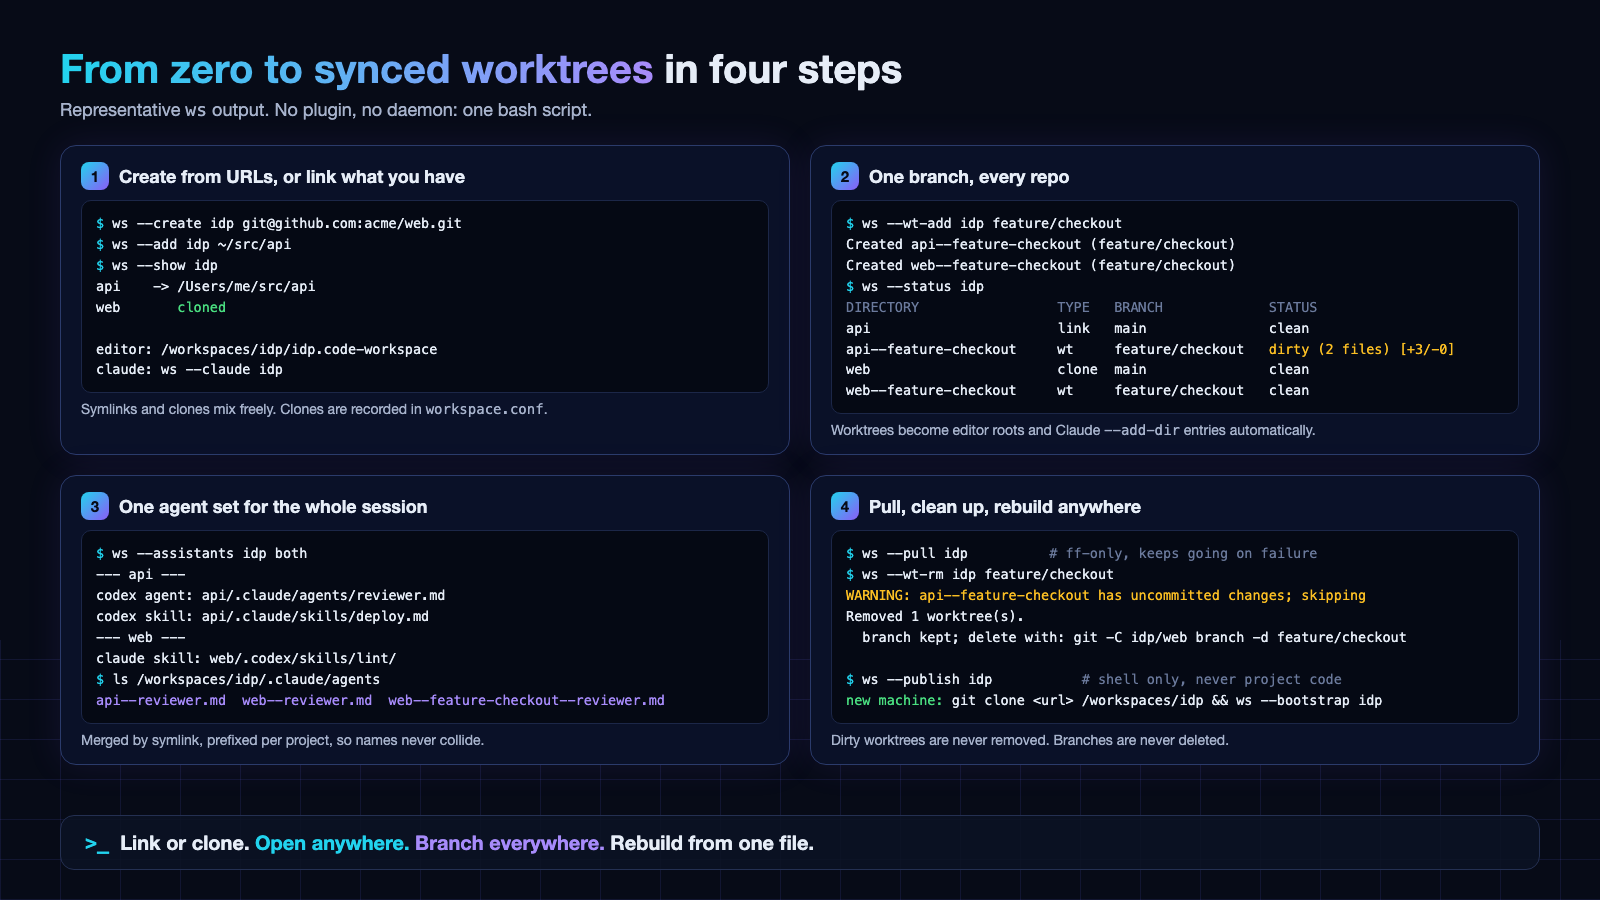
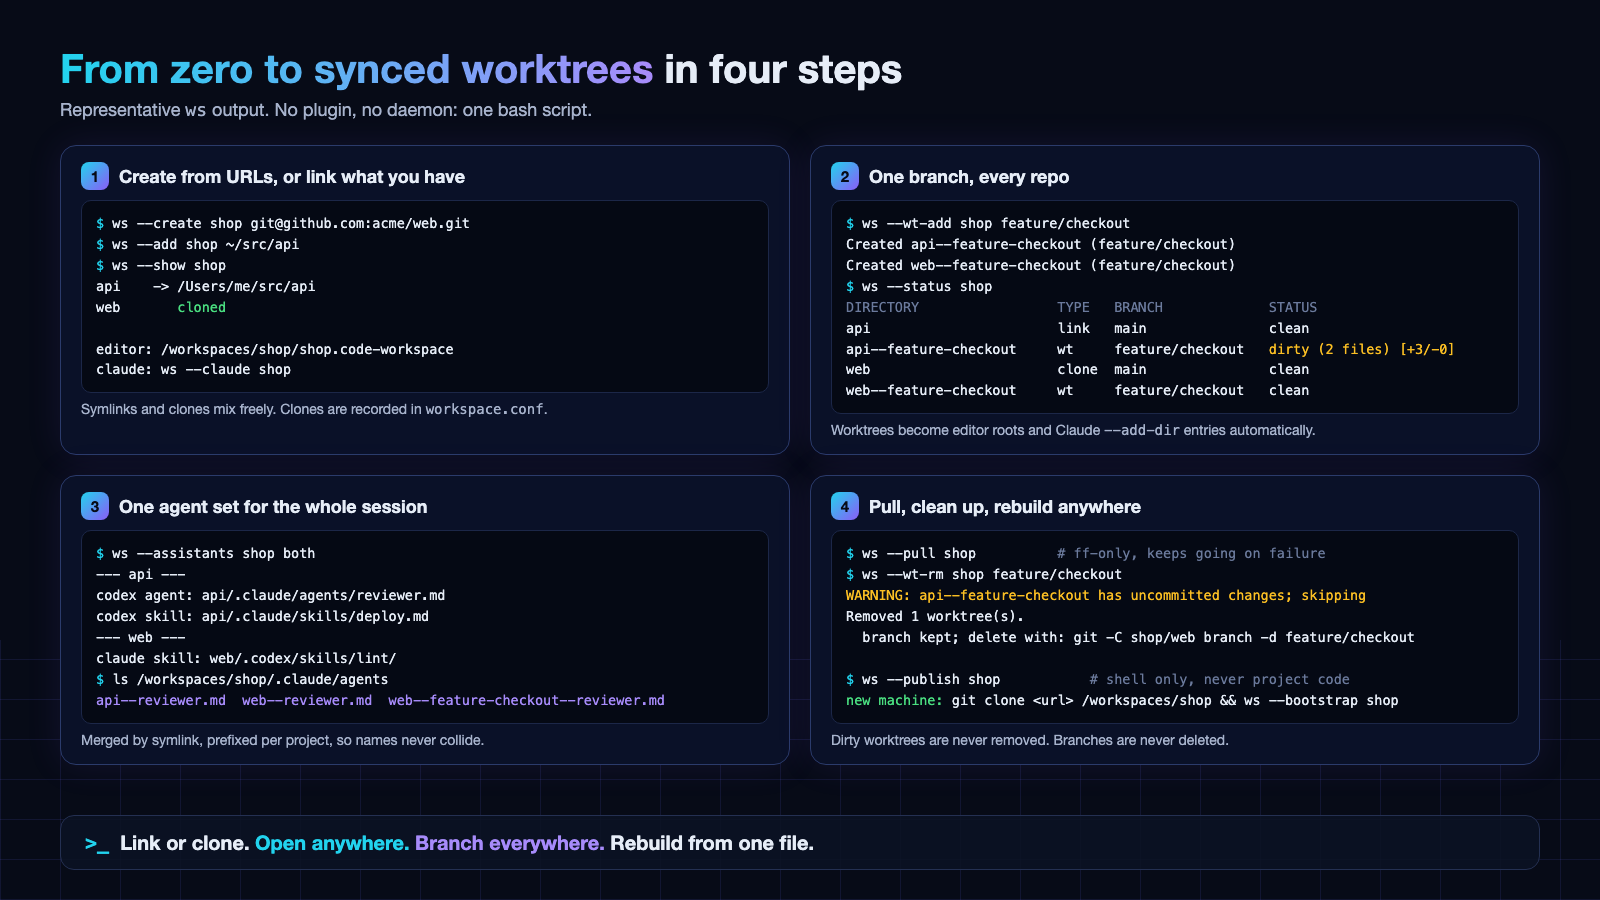
Rename example workspace from idp to shop
Use a generic e-commerce example (api, web, worker) in the docs, help text,
tests and screenshots instead of an internal project name.

diff --git a/mods/repos-overview/hooks/overview.test.ts b/mods/repos-overview/hooks/overview.test.ts
@@ -25,8 +25,8 @@ describe('parseStatus', () => {
 describe('formatOverview', () => {
   test('one row per repo plus a summary', () => {
     const rows = [parseStatus('api', '## main\n'), parseStatus('web', '## dev [ahead 1]\n M x\n')]
-    const text = formatOverview('idp', rows, ['broken'])
-    expect(text).toContain('idp: 2 repos')
+    const text = formatOverview('shop', rows, ['broken'])
+    expect(text).toContain('shop: 2 repos')
     expect(text).toContain('✓ api')
     expect(text).toContain('● web')
     expect(text).toContain('dev ↑1')

diff --git a/README.md b/README.md
@@ -63,10 +63,10 @@ Precedence, first match wins: `--root <dir>`, the `WS_ROOT` environment variable
 ## Quick start
 
 ```bash
-ws --create idp
-ws --add idp ~/src/api
-ws --add idp ~/src/web web
-ws --show idp
+ws --create shop
+ws --add shop ~/src/api
+ws --add shop ~/src/web web
+ws --show shop
 ```
 
 `web` is the name inside the workspace. Omit it to use the directory's basename.
@@ -78,9 +78,9 @@ Every child directory is included, whether or not it is a Git repository. Broken
 Instead of linking repos you already have, let `ws` clone them:
 
 ```bash
-ws --create idp git@github.com:acme/api.git https://github.com/acme/web.git
-ws --clone idp git@github.com:acme/worker.git              # directory defaults to "worker"
-ws --clone idp git@github.com:acme/web.git web-next -b next # custom dir, branch
+ws --create shop git@github.com:acme/api.git https://github.com/acme/web.git
+ws --clone shop git@github.com:acme/worker.git              # directory defaults to "worker"
+ws --clone shop git@github.com:acme/web.git web-next -b next # custom dir, branch
 ```
 
 Clones are recorded in `workspace.conf`, in the same format virtual-workspace uses:
@@ -96,8 +96,8 @@ REPOS=(
 Commit that file (see `--publish`), and on another machine:
 
 ```bash
-git clone <shell-repo-url> "$(ws --config root)/idp"
-ws --bootstrap idp      # clones what is missing, recreates worktrees, relinks. Safe to rerun.
+git clone <shell-repo-url> "$(ws --config root)/shop"
+ws --bootstrap shop      # clones what is missing, recreates worktrees, relinks. Safe to rerun.
 ```
 
 Symlinked and cloned projects mix freely in one workspace. Only clones and worktrees are recorded in `workspace.conf`, because symlink targets are specific to one machine.
@@ -109,9 +109,9 @@ On every sync, `<project>/.claude/{agents,commands,skills,hooks}/*` is linked as
 Convert between the two tools inside each project:
 
 ```bash
-ws --assistants idp codex    # .claude agents/skills -> .codex  (bare .md skills get frontmatter)
-ws --assistants idp claude   # .codex -> .claude
-ws --assistants idp both
+ws --assistants shop codex    # .claude agents/skills -> .codex  (bare .md skills get frontmatter)
+ws --assistants shop claude   # .codex -> .claude
+ws --assistants shop both
 ```
 
 This writes into the projects' own `.claude`/`.codex` folders and overwrites same-named files there. It prints every file it copies.
@@ -119,11 +119,11 @@ This writes into the projects' own `.claude`/`.codex` folders and overwrites sam
 ## Worktrees across repos
 
 ```bash
-ws --wt-add idp feature/checkout          # <repo>--feature-checkout for every repo
-ws --wt-add idp feature/checkout api web  # only these
-ws --status idp
-ws --pull idp                             # git pull --ff-only everywhere, reports failures, keeps going
-ws --wt-rm idp feature/checkout           # dirty worktrees are skipped; branches are kept
+ws --wt-add shop feature/checkout          # <repo>--feature-checkout for every repo
+ws --wt-add shop feature/checkout api web  # only these
+ws --status shop
+ws --pull shop                             # git pull --ff-only everywhere, reports failures, keeps going
+ws --wt-rm shop feature/checkout           # dirty worktrees are skipped; branches are kept
 ```
 
 A new worktree uses the existing local branch, else `origin/<branch>`, else a new branch from HEAD. Worktrees are real directories in the workspace, so they appear in the editor workspace, in Claude's `--add-dir` list, and in the merged agent links. `--wt-add` is incremental: it skips worktrees that already exist.
@@ -141,8 +141,8 @@ web                            link   main                      clean
 ## Publishing the workspace shell
 
 ```bash
-ws --publish idp                          # private GitHub repo via gh
-ws --publish idp git@github.com:me/idp.git
+ws --publish shop                          # private GitHub repo via gh
+ws --publish shop git@github.com:me/shop.git
 ```
 
 Asks first, then commits only `.gitignore`, `CLAUDE.md`, `AGENTS.md`, `README.md`, and `workspace.conf`. Project contents are never tracked.
@@ -154,15 +154,15 @@ Asks first, then commits only `.gitignore`, `CLAUDE.md`, `AGENTS.md`, `README.md
 Both editors open the same file:
 
 ```bash
-ws --code idp
-ws --cursor idp
+ws --code shop
+ws --cursor shop
 ```
 
-That runs `code` or `cursor` on `<workspace>/idp.code-workspace`. Set `WS_CODE_BIN` or `WS_CURSOR_BIN` if the command has another name.
+That runs `code` or `cursor` on `<workspace>/shop.code-workspace`. Set `WS_CODE_BIN` or `WS_CURSOR_BIN` if the command has another name.
 
 Open that file with **File → Open Workspace from File…**. Opening the symlink folder instead shows a single directory and, in Source Control, no repository for the linked projects.
 
-The workspace file stores absolute paths. After you move a project, run `ws --sync idp`.
+The workspace file stores absolute paths. After you move a project, run `ws --sync shop`.
 
 ## Claude Code
 
@@ -170,19 +170,19 @@ Two ways to open the same workspace:
 
 ```bash
 # File access, skills, and (via an env var) each project's CLAUDE.md.
-ws --claude idp
+ws --claude shop
 
 # Git status follows one project. The others are still --add-dir.
-ws --claude idp --repo web
+ws --claude shop --repo web
 
 # Anything after the name is passed through to claude.
-ws --claude idp -- --resume
+ws --claude shop -- --resume
 ```
 
 Or start Claude yourself from the workspace directory:
 
 ```bash
-cd "$(ws --config root)/idp"
+cd "$(ws --config root)/shop"
 claude
 ```
 
